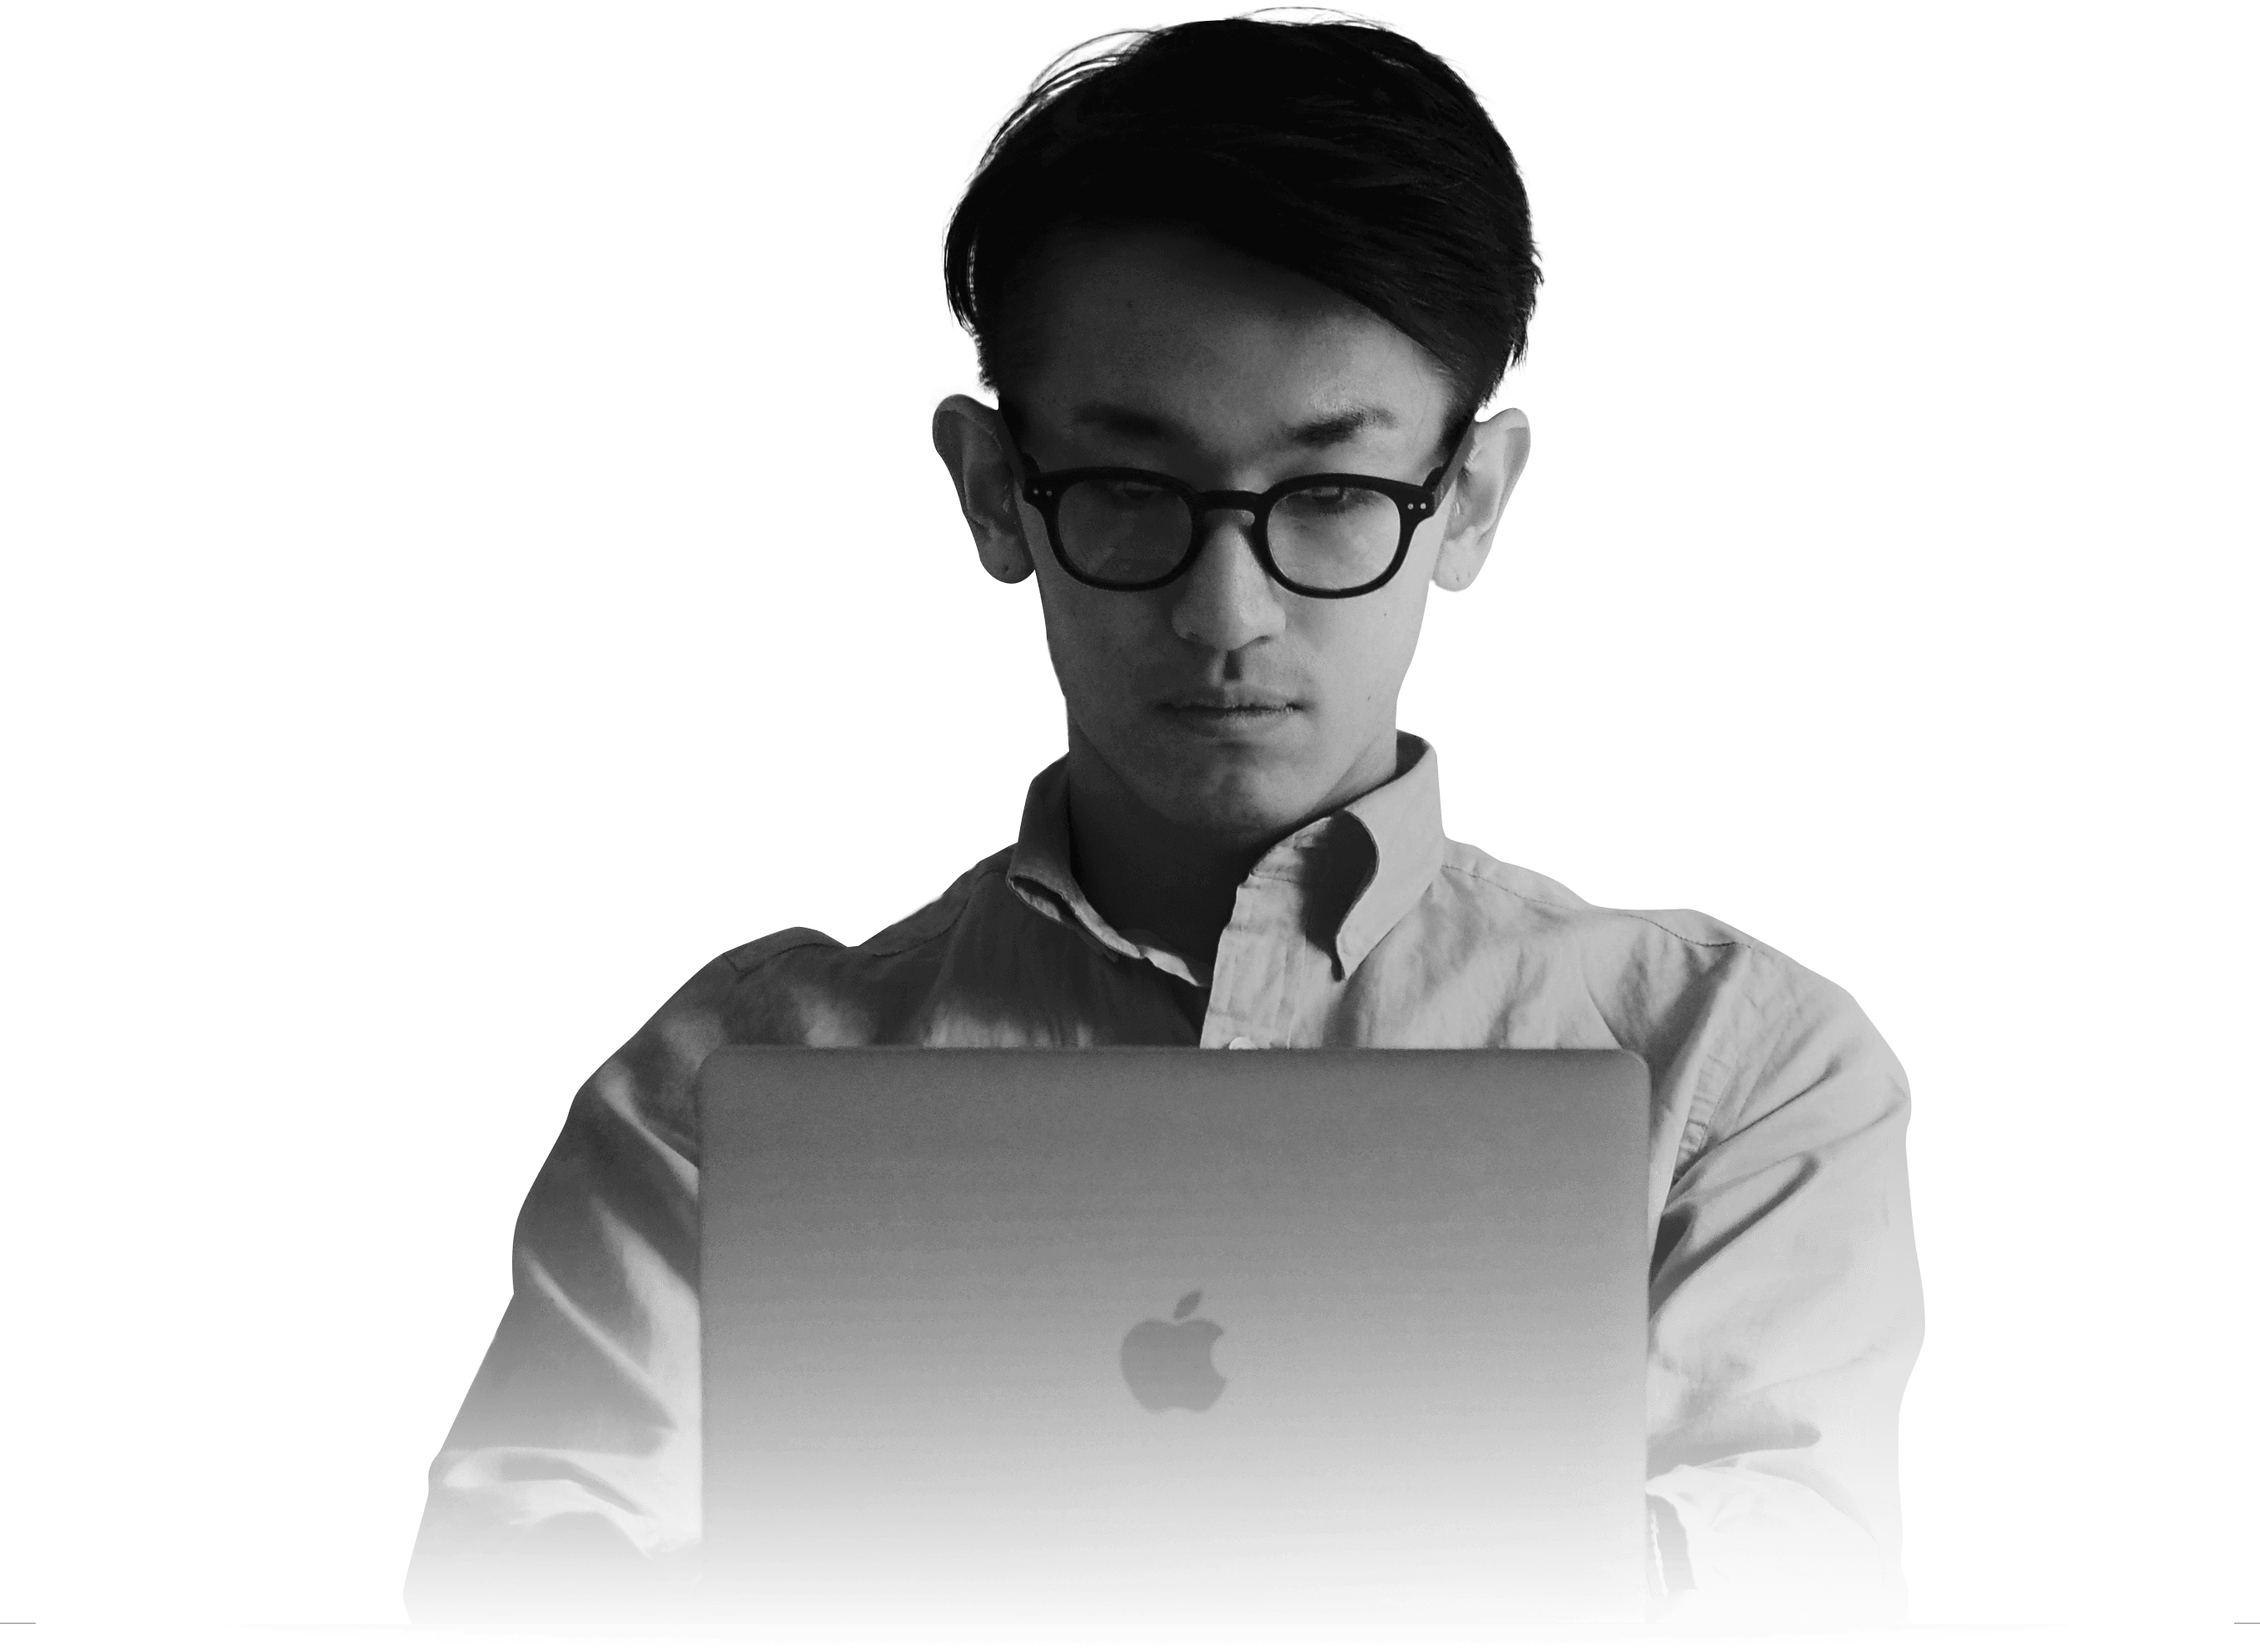
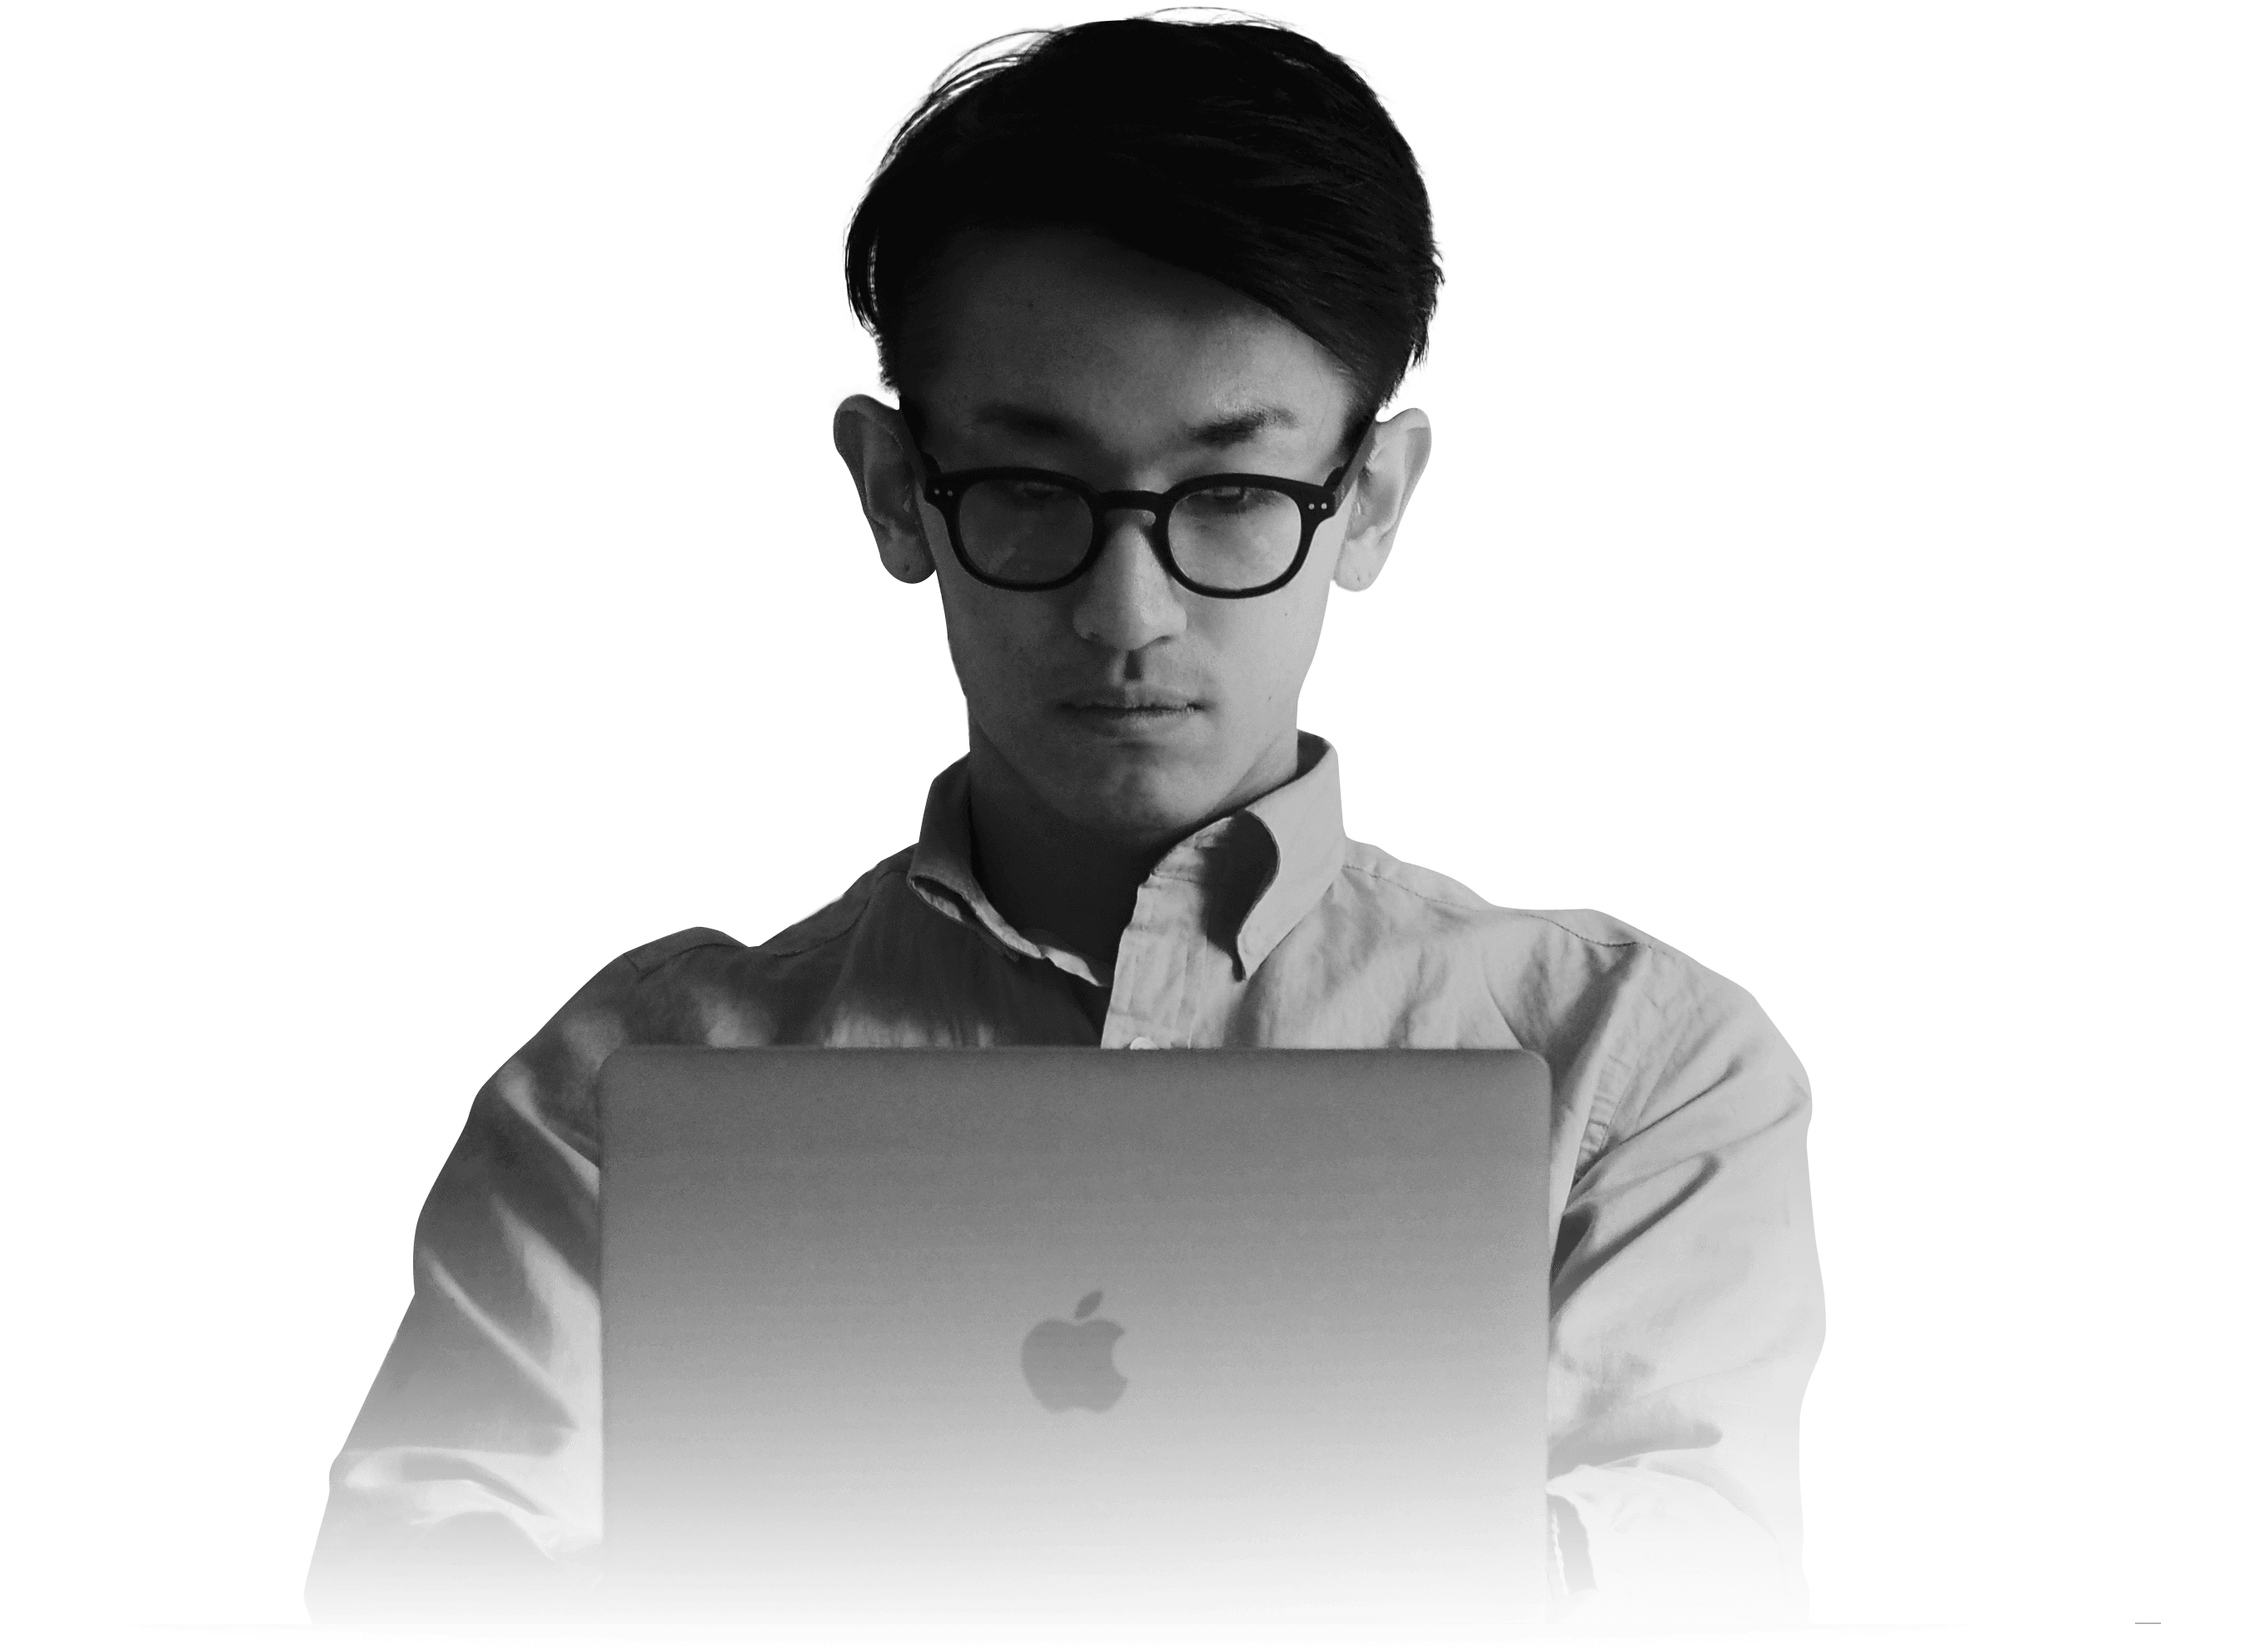
mainvisual css 画像　調整

Changed region(s): [[0.1238, 0.0, 0.8666, 0.9551], [0.4333, 0.801, 0.5571, 0.8626]]

diff --git a/portfolio/css/_include/style.css b/portfolio/css/_include/style.css
@@ -105,7 +105,7 @@
 }.index .mainvisual .wrap
 {position: relative;display: -webkit-box;display: -webkit-flex;display: -ms-flexbox;display:         flex;flex-direction: row;
 
-    height: 100vh;min-height: 760px;-webkit-flex-wrap: wrap;-ms-flex-wrap: wrap;flex-wrap: wrap;-webkit-box-orient: horizontal;-webkit-box-direction: normal;-webkit-flex-direction: row;-ms-flex-direction: row;-webkit-box-align: center;-webkit-align-items: center;-ms-flex-align: center;align-items: center;-webkit-box-pack: end;-webkit-justify-content: flex-end;-ms-flex-pack: end;justify-content: flex-end;
+    height: 100vh;min-height: 760px;-webkit-flex-wrap: wrap;-ms-flex-wrap: wrap;flex-wrap: wrap;-webkit-box-orient: horizontal;-webkit-box-direction: normal;-webkit-flex-direction: row;-ms-flex-direction: row;-webkit-box-align: center;-webkit-align-items: center;-ms-flex-align: center;align-items: center;-webkit-box-pack: center;-webkit-justify-content: center;-ms-flex-pack: center;justify-content: center;
 }@media screen and (max-width: 580px)
 {
     .index .mainvisual .wrap
@@ -186,19 +186,13 @@
     opacity: 1;
 }.index .mainvisual_img
 {position: absolute;z-index: 0;top: 0;right: 0;left: 0;width: auto;
-    max-width: none;height: 100%;margin: auto;margin-left: -1%;opacity: .45;mix-blend-mode: hard-light;
-}@media screen and (max-width: 1366px)
-{
-    .index .mainvisual_img
-    {
-        margin-left: -5%;
-    }
+    max-width: none;height: 100%;margin: auto;margin-left: -1%;opacity: .05;mix-blend-mode: hard-light;
 }@media screen and (max-width: 580px)
 {
     .index .mainvisual_img
     {top: auto;bottom: 0;
 
-        height: 95%;margin-left: -30%;
+        height: 95%;margin-left: -30%;opacity: .15;
     }
 }.index .mainvisual .icon-mouse
 {position: absolute;z-index: 3;right: 0;
@@ -207,7 +201,7 @@
 {
     opacity: .4;
 }.index .section-about .section_bg-first
-{top: -5%;left: -10%;
+{top: 0;left: -10%;
 
     width: 50%;
 }.index .section-about .section_bg-last

diff --git a/portfolio/scss/_include/style.scss b/portfolio/scss/_include/style.scss
@@ -139,8 +139,8 @@
 		flex-wrap: wrap;
 		flex-direction: row;
 		align-items: center;
-		// justify-content: center;
-		justify-content: flex-end;
+		justify-content: center;
+		// justify-content: flex-end;
 		
 		@include break( sp ){
 			min-height: 0;
@@ -272,7 +272,7 @@
 		height: 100%;
 		margin: auto;
 		margin-left: -1%;
-		opacity: 0.45;
+		opacity: 0.05;
 		position: absolute;
 		z-index: 0;
 		top: 0;
@@ -280,12 +280,13 @@
 		left: 0;
 		mix-blend-mode: hard-light;
 		
-		@include break( 1366 ){
-			margin-left: -5%;
-		}
+		// @include break( 1366 ){
+		// 	margin-left: -5%;
+		// }
 		@include break( sp ){
 			height: 95%;
 			margin-left: -30%;
+			opacity: 0.15;
 			top: auto;
 			bottom: 0;
 		}		
@@ -326,7 +327,7 @@
 
 	.section_bg-first{
 		width: percentage( 683/1366 );
-		top: -5%;
+		top: 0%;
 		left: -10%;
 	}
 	.section_bg-last{
@@ -336,7 +337,7 @@
 	}
 
 
-	@include break( tab ){
+	@include break( tab ){	
 		.section_bg-last{
 			width: percentage( 325/1366 );
 			top: percentage( 600/768 );
